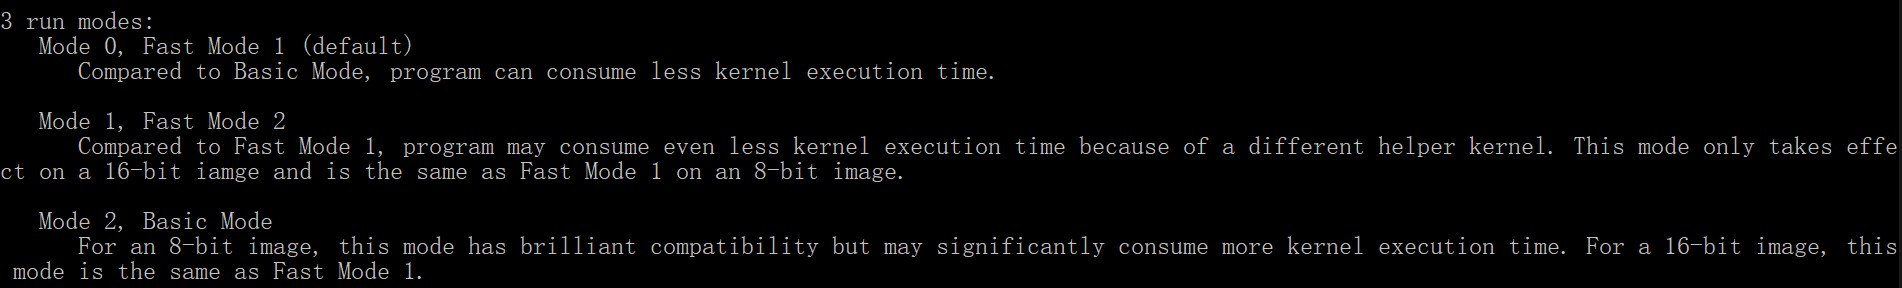
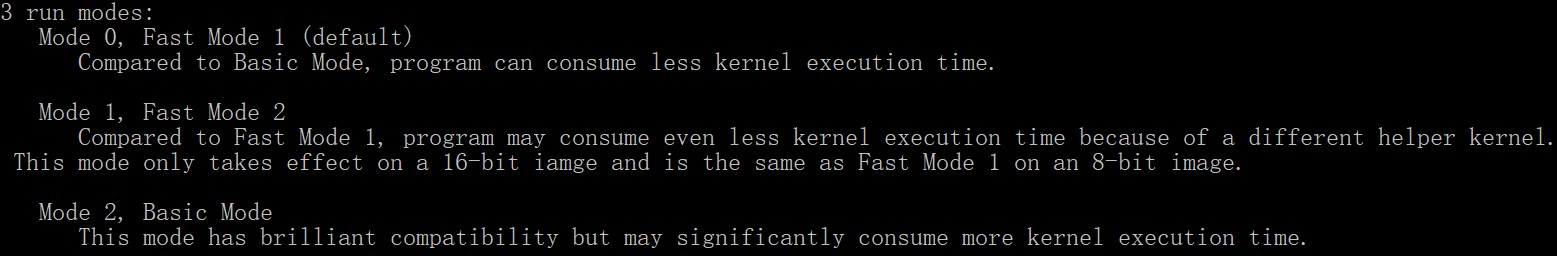
Adjust run mode configuration.

diff --git a/Assessment 1/Assessment 1.cpp b/Assessment 1/Assessment 1.cpp
@@ -1,6 +1,6 @@
 /*
  * @Description: host code file of the tool applying histogram equalisation on a specified RGB image (8-bit/16-bit)
- * @Version: 1.7.4.20200321
+ * @Version: 1.8.0.20200321
  * @Author: Arvin Zhao
  * @Date: 2020-03-08 15:29:21
  * @Last Editors: Arvin Zhao
@@ -36,8 +36,7 @@ int main(int argc, char **argv)
 			std::cout << "      Compared to Fast Mode 1, program may consume even less kernel execution time because of a different helper ";
 			std::cout << "kernel. This mode only takes effect on a 16-bit iamge and is the same as Fast Mode 1 on an 8-bit image.\n" << std::endl;
 			std::cout << "   Mode 2, Basic Mode" << std::endl;
-			std::cout << "      For an 8-bit image, this mode has brilliant compatibility but may significantly consume more kernel execution ";
-			std::cout << "time. For a 16-bit image, this mode is the same as Fast Mode 1." << std::endl;
+			std::cout << "      This mode has brilliant compatibility but may significantly consume more kernel execution time." << std::endl;
 			std::cout << "----------------------------------------------------------------" << std::endl;
 		}
 		else if ((strcmp(argv[i], "-p") == 0) && (i < (argc - 1)))
@@ -250,7 +249,7 @@ int main(int argc, char **argv)
 		cl::Kernel kernel1, kernel2, kernel2_helper1, kernel2_helper2, kernel2_helper3;
 
 		// use optimised versions if any
-		if (mode_id == 0 || mode_id == 1 || (mode_id == 2 && bin_count == 65536))
+		if (mode_id == 0 || mode_id == 1)
 		{
 			if (bin_count == 256)
 			{
@@ -360,20 +359,17 @@ int main(int argc, char **argv)
 		else
 			queue.enqueueNDRangeKernel(kernel1, cl::NullRange, cl::NDRange(input_image_elements), cl::NullRange, NULL, &kernel1_event);
 		
-		if (bin_count == 256)
-		{
-			if (mode_id == 0 || mode_id == 1)
-				queue.enqueueNDRangeKernel(kernel2, cl::NullRange, cl::NDRange(H_elements), cl::NDRange(local_elements_8), NULL, &kernel2_event);
-			else
-				queue.enqueueNDRangeKernel(kernel2, cl::NullRange, cl::NDRange(H_elements), cl::NullRange, NULL, &kernel2_event);
-		}
-		else
+		if ((mode_id == 0 || mode_id == 1) && bin_count == 65536)
 		{
 			queue.enqueueNDRangeKernel(kernel2, cl::NullRange, cl::NDRange(kernel2_global_elements_16), cl::NDRange(local_elements_16), NULL, &kernel2_event);
 			queue.enqueueNDRangeKernel(kernel2_helper1, cl::NullRange, cl::NDRange(group_count), cl::NullRange, NULL, &kernel2_helper1_event);
 			queue.enqueueNDRangeKernel(kernel2_helper2, cl::NullRange, cl::NDRange(group_count), cl::NullRange, NULL, &kernel2_helper2_event);
 			queue.enqueueNDRangeKernel(kernel2_helper3, cl::NullRange, cl::NDRange(kernel2_global_elements_16), cl::NDRange(local_elements_16), NULL, &kernel2_helper3_event);
-		} // end if...else
+		}
+		else if ((mode_id == 0 || mode_id == 1) && bin_count == 256)
+			queue.enqueueNDRangeKernel(kernel2, cl::NullRange, cl::NDRange(H_elements), cl::NDRange(local_elements_8), NULL, &kernel2_event);
+		else
+			queue.enqueueNDRangeKernel(kernel2, cl::NullRange, cl::NDRange(H_elements), cl::NullRange, NULL, &kernel2_event);
 
 		queue.enqueueNDRangeKernel(kernel3, cl::NullRange, cl::NDRange(CH_elements), cl::NullRange, NULL, &kernel3_event);
 		queue.enqueueNDRangeKernel(kernel4, cl::NullRange, cl::NDRange(input_image_elements), cl::NullRange, NULL, &kernel4_event);
@@ -388,7 +384,7 @@ int main(int argc, char **argv)
 		std::cout << "H = " << H << std::endl;
 		std::cout << "CH = " << CH << std::endl;
 
-		if (bin_count == 65536)
+		if ((mode_id == 0 || mode_id == 1) && bin_count == 65536)
 		{
 			queue.enqueueReadBuffer(buffer_BS, CL_TRUE, 0, BS_size, &CH[0]);
 
@@ -446,7 +442,7 @@ int main(int argc, char **argv)
 			+ kernel4_event.getProfilingInfo<CL_PROFILING_COMMAND_END>() - kernel4_event.getProfilingInfo<CL_PROFILING_COMMAND_START>(); // total execution time of kernels
 		cl_ulong output_image_download_time = output_image_event.getProfilingInfo<CL_PROFILING_COMMAND_END>() - output_image_event.getProfilingInfo<CL_PROFILING_COMMAND_START>();
 
-		if (bin_count == 65536)
+		if ((mode_id == 0 || mode_id == 1) && bin_count == 65536)
 		{
 			cl_ulong kernel2_helper_time = kernel2_helper1_event.getProfilingInfo<CL_PROFILING_COMMAND_END>() - kernel2_helper1_event.getProfilingInfo<CL_PROFILING_COMMAND_START>()
 				+ kernel2_helper2_event.getProfilingInfo<CL_PROFILING_COMMAND_END>() - kernel2_helper2_event.getProfilingInfo<CL_PROFILING_COMMAND_START>()
